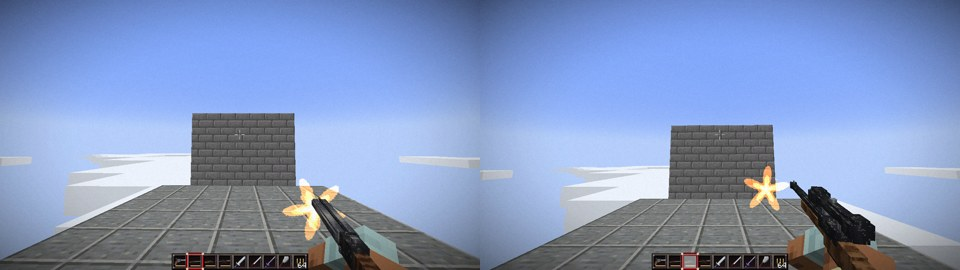
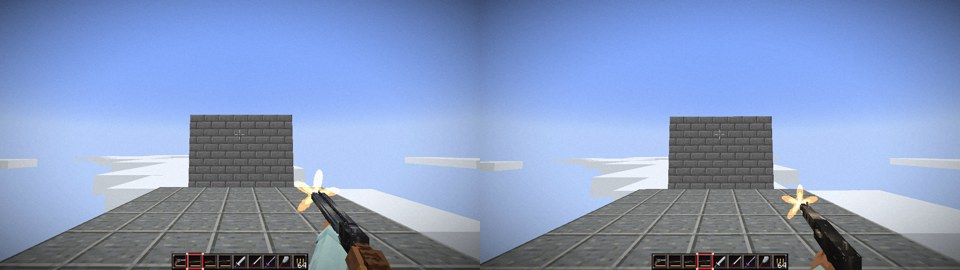
Attach first-person hands to each gun's own grip points
Hand placement was tuned as screen offsets, separately from the gun, so it
could never line up. Each gun now declares its grip, forend and muzzle in
its own model coordinates; those points go through the exact transform the
item renderer used, and each arm is drawn reaching from the shoulder to its
point at the gun's scale, extended off screen. The muzzle flash uses the
same mapping, so it stays on the barrel tip through recoil.

Claude-Session: https://claude.ai/code/session_01E7DY94USqwae6za1fLq6Ar

diff --git a/deadcraft/src/main/java/com/deadcraft/client/ViewModel.java b/deadcraft/src/main/java/com/deadcraft/client/ViewModel.java
@@ -47,7 +47,7 @@ public final class ViewModel {
     ));
     /** Per-weapon placement: dx dy dz rx ry rz scale (item), applied around the held item. */
     private static final Map<String, float[]> ITEM = new HashMap<>(Map.of(
-            "rusted_revolver", new float[]{0.02f, -0.04f, 0.05f, 0f, 172f, 0f, 0.8f},
+            "rusted_revolver", new float[]{0.0f, 0.06f, 0.0f, 0f, 172f, 0f, 0.8f},
             "doomsday_shotgun", new float[]{0.05f, -0.06f, 0.0f, 0f, 172f, 0f, 0.92f},
             "marksman_rifle", new float[]{0.05f, -0.06f, 0.0f, 0f, 172f, 0f, 0.92f},
             "scrap_smg", new float[]{0.05f, -0.06f, 0.0f, 0f, 172f, 0f, 0.92f}
@@ -117,6 +117,7 @@ public final class ViewModel {
         aim = Mth.lerp(0.18f, aim, gun && player.isShiftKeyDown() ? 1f : 0f);
 
         pose.pushPose();
+        org.joml.Matrix4f baseFrame = new org.joml.Matrix4f(pose.last().pose());
         // the whole rig (arms and weapon) brought up and in, so the weapon reads clearly on screen
         float[] base = tune(gun ? "gun_base" : "blade_base");
         pose.translate(base[0] * side * (1 - aim), base[1] * (1 - aim), base[2] * (1 - aim));
@@ -138,10 +139,40 @@ public final class ViewModel {
             pose.mulPose(Axis.ZP.rotationDegrees(it[5] * side));
             if (it.length > 6) pose.scale(it[6], it[6], it[6]);
         }
-        mc.getEntityRenderDispatcher().getItemInHandRenderer().renderItem(player, main,
-                right ? ItemDisplayContext.FIRST_PERSON_RIGHT_HAND : ItemDisplayContext.FIRST_PERSON_LEFT_HAND,
-                !right, pose, buffers, light);
+        ItemDisplayContext ctx = right ? ItemDisplayContext.FIRST_PERSON_RIGHT_HAND : ItemDisplayContext.FIRST_PERSON_LEFT_HAND;
+        mc.getEntityRenderDispatcher().getItemInHandRenderer().renderItem(player, main, ctx, !right, pose, buffers, light);
+        org.joml.Vector3f gripR = null, gripL = null, muzzleAt = null;
+        float[][] grips = GRIPS.get(key);
+        if (gun && grips != null) {
+            // the exact transform the item renderer used: display transform, then the model's -0.5 centring
+            pose.pushPose();
+            var model = mc.getItemRenderer().getModel(main, player.level(), player, 0);
+            model.applyTransform(ctx, pose, !right);
+            pose.translate(-0.5f, -0.5f, -0.5f);
+            org.joml.Matrix4f toBase = new org.joml.Matrix4f(baseFrame).invert().mul(pose.last().pose());
+            gripR = toBase.transformPosition(new org.joml.Vector3f(grips[0][0] / 16f, grips[0][1] / 16f, grips[0][2] / 16f));
+            gripL = toBase.transformPosition(new org.joml.Vector3f(grips[1][0] / 16f, grips[1][1] / 16f, grips[1][2] / 16f));
+            muzzleAt = toBase.transformPosition(new org.joml.Vector3f(grips[2][0] / 16f, grips[2][1] / 16f, grips[2][2] / 16f));
+            pose.popPose();
+        }
         pose.popPose();
+
+        if (gun && gripR != null) {
+            tune("");
+            float[] sr = TUNE.getOrDefault("shoulder_r", new float[]{0.42f, -0.95f, 0.05f});
+            float[] sl = TUNE.getOrDefault("shoulder_l", new float[]{-0.30f, -0.95f, 0.05f});
+            reach(pose, baseFrame, buffers, light, renderer, player, right, gripR, new org.joml.Vector3f(sr[0] * side, sr[1], sr[2]));
+            reach(pose, baseFrame, buffers, light, renderer, player, !right, gripL, new org.joml.Vector3f(sl[0] * side, sl[1], sl[2]));
+            if (System.currentTimeMillis() - firedAt < 75 && muzzleAt != null) {
+                pose.pushPose();
+                pose.last().pose().set(baseFrame);
+                float size = key.equals("doomsday_shotgun") ? 0.42f : 0.3f;
+                flash(pose, buffers, muzzleAt.x, muzzleAt.y, muzzleAt.z - 0.05f, size);
+                pose.popPose();
+            }
+            pose.popPose();
+            return true;
+        }
 
         // the hand on the grip (follows the weapon's swing)
         pose.pushPose();
@@ -172,6 +203,55 @@ public final class ViewModel {
         }
         pose.popPose();
         return true;
+    }
+
+    /** Grip points per gun, in the gun model's own pixel coordinates: {right hand, left hand}. */
+    private static final Map<String, float[][]> GRIPS = Map.of(
+            "rusted_revolver", new float[][]{{5.4f, 4.6f, 8f}, {5.0f, 2.6f, 8f}, {18.6f, 9.0f, 8f}},
+            "doomsday_shotgun", new float[][]{{8.2f, 7.6f, 8f}, {16.5f, 7.6f, 8f}, {26.4f, 9.25f, 8f}},
+            "marksman_rifle", new float[][]{{8.8f, 7.6f, 8f}, {17.5f, 8.0f, 8f}, {30.8f, 9.9f, 8f}},
+            "scrap_smg", new float[][]{{8.4f, 6.0f, 8f}, {12.5f, 5.8f, 8f}, {23.4f, 9.4f, 8f}});
+
+    /**
+     * Draws an arm whose hand closes on {@code grip}, reaching from roughly {@code shoulder} (both in
+     * the base frame). The arm is rotated so its long axis runs from the shoulder to the grip.
+     */
+    private static void reach(PoseStack pose, org.joml.Matrix4f base, MultiBufferSource buffers, int light, PlayerRenderer renderer,
+                              AbstractClientPlayer player, boolean rightArm, org.joml.Vector3f grip, org.joml.Vector3f shoulder) {
+        var model = renderer.getModel();
+        var arm = rightArm ? model.rightArm : model.leftArm;
+        var sleeve = rightArm ? model.rightSleeve : model.leftSleeve;
+        org.joml.Vector3f dir = new org.joml.Vector3f(grip).sub(shoulder).normalize();
+        float axisX = rightArm ? -1f : 1f;   // the arm box's centre line, in pixels from its pivot
+        pose.pushPose();
+        pose.last().pose().set(base);
+        pose.translate(grip.x, grip.y, grip.z);
+        pose.mulPose(new org.joml.Quaternionf().rotationTo(0, 1, 0, dir.x, dir.y, dir.z));
+        float k = TUNE.getOrDefault("arm_scale", new float[]{0.5f})[0];
+        pose.scale(k, k, k);   // the same scale the gun is drawn at in first person
+        pose.mulPose(Axis.YP.rotationDegrees(rightArm ? -90f : 90f));   // knuckles outward, palm on the gun
+        pose.translate(-axisX / 16f, -8.5f / 16f, 0);
+        arm.resetPose();
+        arm.setPos(0, 0, 0);
+        arm.setRotation(0, 0, 0);
+        sleeve.copyFrom(arm);
+        var skin = player.getSkin().texture();
+        // the hand and forearm, then more sleeve back toward the shoulder so the arm runs off screen
+        float reachLen = new org.joml.Vector3f(grip).sub(shoulder).length();
+        int segments = Math.max(1, Math.min(2, (int) Math.ceil(reachLen / (11f / 16f * k))));
+        for (int i = 0; i < segments; i++) {
+            if (i > 0) {
+                // a second copy, flipped end-for-end at the elbow, so its hand end lies off screen
+                pose.translate(-axisX / 16f * 0, -2f / 16f, 0);
+                pose.mulPose(Axis.XP.rotationDegrees(180f));
+                pose.translate(0, 2f / 16f, 0);
+            }
+            arm.render(pose, buffers.getBuffer(net.minecraft.client.renderer.RenderType.entitySolid(skin)), light,
+                    net.minecraft.client.renderer.texture.OverlayTexture.NO_OVERLAY);
+            sleeve.render(pose, buffers.getBuffer(net.minecraft.client.renderer.RenderType.entityTranslucent(skin)), light,
+                    net.minecraft.client.renderer.texture.OverlayTexture.NO_OVERLAY);
+        }
+        pose.popPose();
     }
 
     /** Vanilla's first-person arm pose, with our offsets layered on, then the arm itself. */
